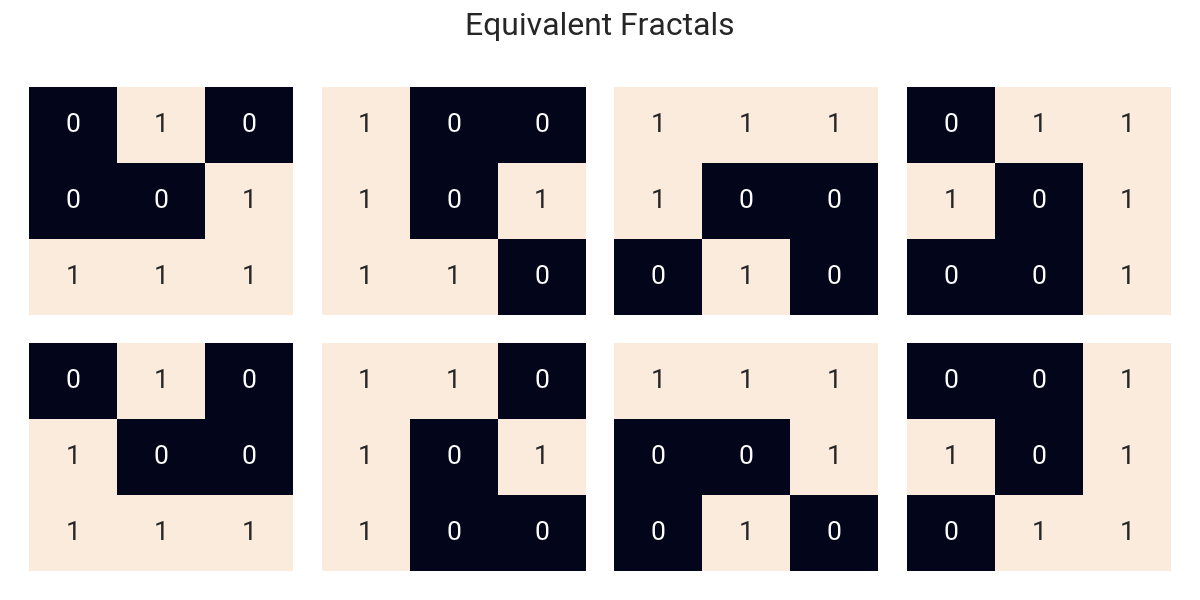
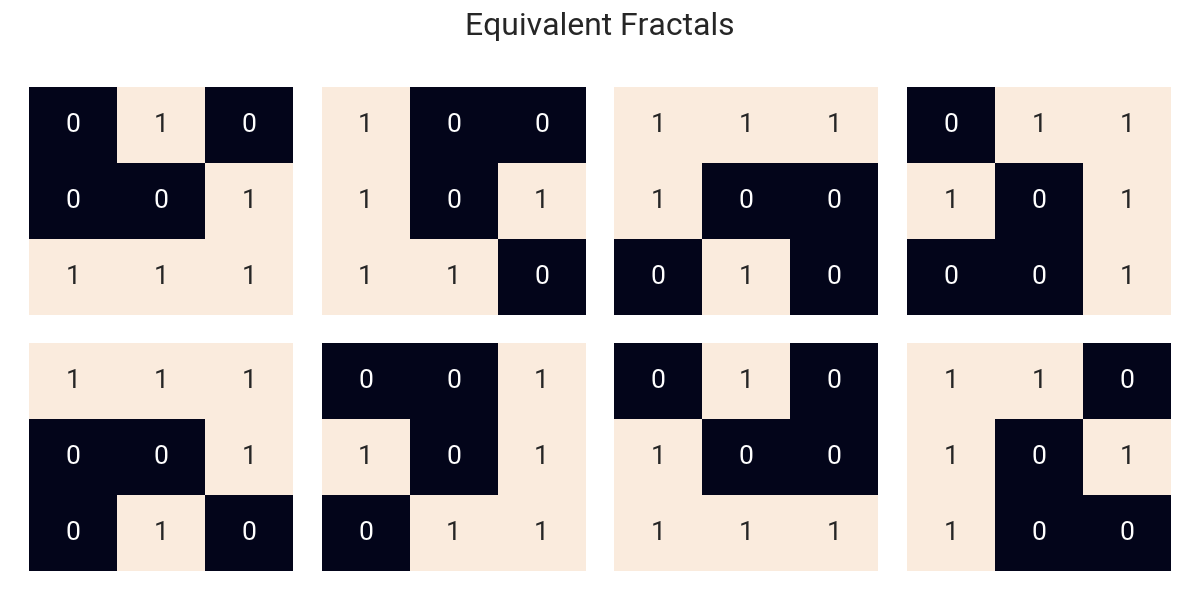
Added grouped algorithm.

Changed region(s): [[0.1542, 0.57, 0.5858, 0.96], [0.6475, 0.57, 0.9867, 0.96], [0.0, 0.57, 0.1233, 0.96]]

diff --git a/_drafts/aoc_2017-21.md b/_drafts/aoc_2017-21.md
@@ -97,11 +97,11 @@ The above strategy is implemented in the `transform` function as follows:
 func makeEmptyNaive(n int) naiveFractal
 
 func (f naiveFractal) mirror() naiveFractal {
- fNew := make(naiveFractal, len(f))
+ n := len(f)
+ fNew := make(naiveFractal, n)
 
  for i, row := range f {
-  fNew[i] = slices.Clone(row)
-  slices.Reverse(fNew[i])
+  fNew[n-i-1] = slices.Clone(row)
  }
 
  return fNew
@@ -245,18 +245,18 @@ pkg: github.com/sergiovaneg/GoStudy/AoC/2017/fractalArt
 cpu: AMD Ryzen 5 5500U with Radeon Graphics         
                            │   raw.txt   │
                            │   sec/op    │
-Solvers/Naïve_Solver/0-12    6.789n ± 2%
-Solvers/Naïve_Solver/1-12    63.56µ ± 2%
-Solvers/Naïve_Solver/2-12    67.40µ ± 2%
-Solvers/Naïve_Solver/3-12    74.51µ ± 1%
-Solvers/Naïve_Solver/4-12    88.47µ ± 1%
-Solvers/Naïve_Solver/5-12    111.3µ ± 1%
-Solvers/Naïve_Solver/6-12    174.1µ ± 1%
-Solvers/Naïve_Solver/7-12    274.4µ ± 2%
+Solvers/Naïve_Solver/0-12    6.740n ± 1%
+Solvers/Naïve_Solver/1-12    62.64µ ± 1%
+Solvers/Naïve_Solver/2-12    64.80µ ± 2%
+Solvers/Naïve_Solver/3-12    70.16µ ± 2%
+Solvers/Naïve_Solver/4-12    83.10µ ± 2%
+Solvers/Naïve_Solver/5-12    111.4µ ± 1%
+Solvers/Naïve_Solver/6-12    164.7µ ± 1%
+Solvers/Naïve_Solver/7-12    257.5µ ± 1%
 ...
-Solvers/Naïve_Solver/16-12   158.3m ± 1%
-Solvers/Naïve_Solver/17-12   296.7m ± 2%
-Solvers/Naïve_Solver/18-12   663.9m ± 4%
+Solvers/Naïve_Solver/16-12   145.7m ± 2%
+Solvers/Naïve_Solver/17-12   306.6m ± 2%
+Solvers/Naïve_Solver/18-12   603.4m ± 3%
 ```
 
 Huh...that's odd. It works?
@@ -278,7 +278,7 @@ N_{k+1} &= \begin{cases}
 
 This means the grid grows exponentially, which entails $\mathcal{O}(C^k)$. If math alone isn't scary enough, let's take a look at some numbers:
 
-| $k$ | $n_k$ | Size in Memory[^1] |
+| $k$ | $N_k$ | Size in Memory[^1] |
 | :-: | :-: | :-: |
 | 0 | 3 | 9 B |
 | 1 | 4 | 16 B |
@@ -287,7 +287,9 @@ This means the grid grows exponentially, which entails $\mathcal{O}(C^k)$. If ma
 | 4 | 12 | 144 B |
 | 5 | 18 | 324 B |
 | 6 | 27 | 729 B |
-| 7 | 36 | 1.27 kB |
+| 7 | 36 | 1.27 kiB |
+| 8 | 54 | 2.85 kiB |
+| 9 | 81 | 6.41 kiB |
 | $\vdots$ | $\vdots$ | $\vdots$ |
 | 16 | 972 | 923 kiB |
 | 17 | 1458 | 2.03 MiB |
@@ -301,10 +303,10 @@ For day 21, I was expecting the brute-force approach not to scale for part 2, an
 
 ```text
 ...
-Solvers/Naïve_Solver/19-12    1.252 ± 2%
-Solvers/Naïve_Solver/20-12    2.376 ± 1%
-Solvers/Naïve_Solver/21-12    5.389 ± 2%
-Solvers/Naïve_Solver/22-12    10.65 ± 2%
+Solvers/Naïve_Solver/19-12    1.174 ± 1%
+Solvers/Naïve_Solver/20-12    2.454 ± 2%
+Solvers/Naïve_Solver/21-12    5.071 ± 2%
+Solvers/Naïve_Solver/22-12    10.03 ± 2%
 ```
 
 So 22 will be our target number of iterations. To avoid drowning this blog in logs, I will just show the benchmarks for 0, 1, 5, 18, and 22 iterations from now on. Don't worry, I'll draw some curves at the end to compare the performance gains from all
@@ -349,19 +351,19 @@ So yeah, pretty much the same function with a waitgroup in the middle. I decided
 
 ```text
                                       │    sec/op    │
-Solvers/Naïve_Concurrent_Solver/0-12    6.778n ±  2%
-Solvers/Naïve_Concurrent_Solver/1-12    64.98µ ±  2%
+Solvers/Naïve_Concurrent_Solver/0-12    6.813n ±  1%
+Solvers/Naïve_Concurrent_Solver/1-12    61.82µ ±  3%
 ...
-Solvers/Naïve_Concurrent_Solver/5-12    135.6µ ±  3%
+Solvers/Naïve_Concurrent_Solver/5-12    131.3µ ±  1%
 ...
-Solvers/Naïve_Concurrent_Solver/18-12   180.5m ±  6%
+Solvers/Naïve_Concurrent_Solver/18-12   160.8m ±  1%
 ...
-Solvers/Naïve_Concurrent_Solver/22-12    2.306 ±  4%
+Solvers/Naïve_Concurrent_Solver/22-12    2.034 ±  4%
 ```
 
 So, a couple of things to highlight here:
 - Green threads are cheap, but they're not free. The cost of syncronization and spawning goroutines makes it so that concurrency is initially as expensive as (or even more so than) single-threaded execution.
-- As we increase the number of iterations, the improvement becomes clear, yielding a $4\times$ speed-up for 23 procedure iterations without modifying the algorithm or data structures.
+- As we increase the number of iterations, the improvement becomes clear, yielding a $5\times$ speed-up for 22 procedure iterations without modifying the algorithm or data structures.
 
 Still, a pretty significative improvement for what is essentially the same code. I wonder if there is another trivial optimization I might be missing...
 
@@ -421,26 +423,177 @@ func (r pointerRuleset) grow(f naiveFractal) naiveFractal
 So, with out new ruleset, we can go and see how much of an improvement we got:
 ```text
                               │   sec/op    │
-Solvers/Naïve_DP_Solver/0-12    6.788n ± 3%
-Solvers/Naïve_DP_Solver/1-12    446.0µ ± 1%
+Solvers/Naïve_DP_Solver/0-12    6.728n ±  1%
+Solvers/Naïve_DP_Solver/1-12    450.7µ ±  1%
 ...
-Solvers/Naïve_DP_Solver/5-12    547.3µ ± 2%
+Solvers/Naïve_DP_Solver/5-12    531.8µ ±  2%
 ...
-Solvers/Naïve_DP_Solver/18-12   83.41m ± 3%
+Solvers/Naïve_DP_Solver/18-12   83.51m ±  5%
 ...
-Solvers/Naïve_DP_Solver/22-12   722.1m ± 5%
+Solvers/Naïve_DP_Solver/22-12   694.7m ± 11%
 ```
 
-It's clear that by using tabulation we're paying a heavier warm-up price. However, by the 18th iteration we have already got a return-on-investment, to the point where the 22th iteration now is reachable in under a second. Considering we started at 10 seconds, this is a $10\times$ improvement without fundamentally changing the original algorithm, and a $3\times$ improvement over just concurrency.
+It's clear that by using tabulation we're paying a heavier warm-up price. However, by the 18th iteration we have already got a return-on-investment, to the point where the 22th iteration now is reachable in under a second. Considering we started at 10 seconds, this is a $14\times$ improvement without fundamentally changing the original algorithm, and a $3\times$ improvement over just concurrency.
 
-However, not changing the algorithm also means that the asymptotic complexity remains exponential. Well, what if I told you that by representing our state in a more clever way, focusing on what the problem is actually asking from us, it is possible to reach $\mathcal{O}(1)$ complexity?
+However, not modifying the algorithm also means that its asymptotic complexity remains exponential. Well, what if I told you that by representing our state in a more clever way, focusing on what the problem is actually asking from us, it is possible to reach $\mathcal{O}(1)$ complexity?
 
 ## <a id="insight"></a>Independent Evolution and Separable Elements
 
-The original problem requests the number of `#` characters present after a number of iterations; it nevers says anything about their position. However, we have seen that fractals mix before applying the rules for every iteration, so it's not as simple as applying the rules recursively for each subfractal. Thus, I decided to take a look at the behaviour of the algorithm during the first few iterations:
+The original problem requests the number of `#` characters present after a number of iterations; it nevers says anything about their position. However, we have seen that fractals mix before applying the rules for every iteration, so it's not as simple as applying the rules recursively for each subfractal. Thus, I decided to take a look at the behaviour of the algorithm during the first few iterations.
+
+### The Heuristic
 
 ![Fractal Behaviour](/assets/fractalArt/evo.png)
 
-The colours above indicate for each column the input-output correspondence subregion correspondence. Notice a pattern? There is a sequence of period 3 in the algorithm; i.e., starting from a fractal of size $n=3$, we get a set of 9 sub-fractals of the same size that evolve independently and deterministically. This means that there is no need of tracking the position of these *atomic* elements with respect to each other, so we can just track the number of repeated 3-fractals currently in our fractal.
+For each column, the colours above indicate the input-output subregion correspondence. Notice a pattern? There is a 3-periodic sequence in the algorithm; i.e., starting from a fractal of size $n=3$, after 3 iterations we get a set of 9 sub-fractals of the same size that evolve independently and deterministically. This means that there is no need of tracking the position of these *atomic* elements with respect to each other, so we can just track the number of repeated 3-fractals currently in our grid.
 
-Keep in mind that whenever the requested number of iterations is not a multiple of 3, we will have to make the tracked elementary 3-fractals grow for the remaining number of generations. However, since they are already grouped, this process only has to be done once per distinct pattern. Then, we can multiply the amount of `#` in the tracked subfractals by their number of instances and get the answer.
+Keep in mind that whenever the requested number of iterations is not a multiple of 3, we will have to make the tracked elementary 3-fractals grow for the remaining number of generations. However, since they are already grouped, this procedure only has to be carried out once per distinct pattern. Finally, we can multiply the amount of `#` in the tracked subfractals by their number of instances and get the answer.
+
+Since there are only $2^9=512$ possible 3-fractals, once $N_k \ge 68$ we are bound to have repeated patterns, which in our algorithm happens for the first time at $k=9$. This means that the cost of each iteration beyond this point becomes constant. Moreover, the cost of iterating can be further reduced by applying some of the optimizations we have reviewed so far to this new macro-loop.
+
+### The Implementation
+
+First, we define some new data structures:
+
+```go
+type state map[string]uint
+type stateRuleset map[string]state
+type groupedRuleset struct {
+ rules      pointerRuleset
+ stateRules stateRuleset
+}
+```
+
+Here, `state` is a hash-map that uses 3-fractal serials as indexes to keep track of the state of the grid. Then, `stateRuleset` is a hash-map that memoizes previously observed 3-step transitions from a 3-fractal to a set of nine 3-fractals. `groupedRuleset` is naught but syntactic sugar to pass both the pointer-based rule-set for arbitrarily-sized fractals and the new rule-set as a single argument.
+
+Now, we move onto the heart of the algorithm: we exploit the previously-defined methods to go from a 3-fractal to a 9-fractal deterministically, followed by an extraction of the 9 3-fractals that described to successive state, recording the transition in the state rule-set. That way, every time `growThrice` is called, the transition will be registered if not present and then returned.
+
+```go
+func (gr *groupedRuleset) updateSR(serial string) {
+ f0 := deserializeNaive(serial)
+
+ var f1 naiveFractal
+
+ // 3x3 -> 4x4
+ f0 = gr.rules.transform(f0)
+
+ // 4x4 -> 6x6
+ f1 = makeEmptyNaive(6)
+ for i := range 2 {
+  for j := range 2 {
+   subFractal := f0.getSubfractal(i, j, 2)
+   subFractal = gr.rules.transform(subFractal)
+   f1.setSubfractal(i, j, 3, subFractal)
+  }
+ }
+ f0 = f1
+
+ // 6x6 -> 9x9
+ f1 = makeEmptyNaive(9)
+ for i := range 3 {
+  for j := range 3 {
+   subFractal := f0.getSubfractal(i, j, 2)
+   subFractal = gr.rules.transform(subFractal)
+   f1.setSubfractal(i, j, 3, subFractal)
+  }
+ }
+ f0 = f1
+
+ // 9x9 -> 9 * 3x3
+ s := make(state)
+ for i := range 3 {
+  for j := range 3 {
+   subfractal := f0.getSubfractal(i, j, 3)
+   s[subfractal.serializeNaive()]++
+  }
+ }
+
+ gr.stateRules[serial] = s
+}
+
+func (gr *groupedRuleset) growThrice(serial string) state {
+ if _, ok := gr.stateRules[serial]; !ok {
+  gr.updateSR(serial)
+ }
+
+ return gr.stateRules[serial]
+}
+```
+
+Finally, we exploit this new method and the earlier ones to implement the `Solve` method:
+
+```go
+// Trivial, therefore omitted
+func initGR(lines []string) groupedRuleset
+
+func (GroupedSolver) Solve(seed string, nIters int, lines []string) uint {
+ if len(seed) != 11 {
+  panic("Invalid seed: serial should match a 3x3 fractal.")
+ }
+
+ if nIters == 0 {
+  return uint(strings.Count(seed, "#"))
+ }
+
+ dp := initGR(lines)
+ state0 := state{seed: 1}
+
+ for range nIters / 3 {
+  state1 := make(state)
+
+  for serial0, cnt0 := range state0 {
+   for serial1, cnt1 := range dp.growThrice(serial0) {
+    state1[serial1] += cnt0 * cnt1
+   }
+  }
+
+  state0 = state1
+ }
+
+ var finalCount uint
+ for serial0, cnt0 := range state0 {
+  f := deserializeNaive(serial0)
+
+  for range nIters % 3 {
+   f = dp.rules.grow(f)
+  }
+
+  finalCount += cnt0 * f.count()
+ }
+
+ return finalCount
+}
+```
+
+I didn't apply concurrency this time because the overhead from aggregating 512 maps for what is essentially a retrieval-by-key is not justified.
+
+### The Numbers
+
+```test
+                             │   sec/op    │
+Solvers/Grouped_Solver/0-12    7.071n ± 1%
+Solvers/Grouped_Solver/1-12    448.4µ ± 1%
+Solvers/Grouped_Solver/2-12    449.7µ ± 1%
+Solvers/Grouped_Solver/3-12    459.9µ ± 1%
+Solvers/Grouped_Solver/4-12    460.1µ ± 2%
+Solvers/Grouped_Solver/5-12    476.9µ ± 3%
+Solvers/Grouped_Solver/6-12    490.9µ ± 1%
+Solvers/Grouped_Solver/7-12    497.5µ ± 2%
+Solvers/Grouped_Solver/8-12    558.2µ ± 2%
+Solvers/Grouped_Solver/9-12    505.9µ ± 1%
+Solvers/Grouped_Solver/10-12   508.9µ ± 1%
+Solvers/Grouped_Solver/11-12   558.9µ ± 4%
+Solvers/Grouped_Solver/12-12   505.3µ ± 1%
+Solvers/Grouped_Solver/13-12   507.6µ ± 2%
+Solvers/Grouped_Solver/14-12   568.1µ ± 1%
+Solvers/Grouped_Solver/15-12   509.0µ ± 2%
+Solvers/Grouped_Solver/16-12   507.1µ ± 1%
+Solvers/Grouped_Solver/17-12   574.2µ ± 2%
+Solvers/Grouped_Solver/18-12   505.8µ ± 1%
+Solvers/Grouped_Solver/19-12   509.7µ ± 1%
+Solvers/Grouped_Solver/20-12   576.5µ ± 2%
+Solvers/Grouped_Solver/21-12   512.3µ ± 2%
+Solvers/Grouped_Solver/22-12   526.1µ ± 2%
+```
+
+I left all the runtimes this time to confirm my hypothesis from earlier. As predicted, after the eight iteration we're just retrieving transitions from the memoization hash-map. What's more, after this point we get 3-periodic execution times due to the remaining, non-memoized iterations.
